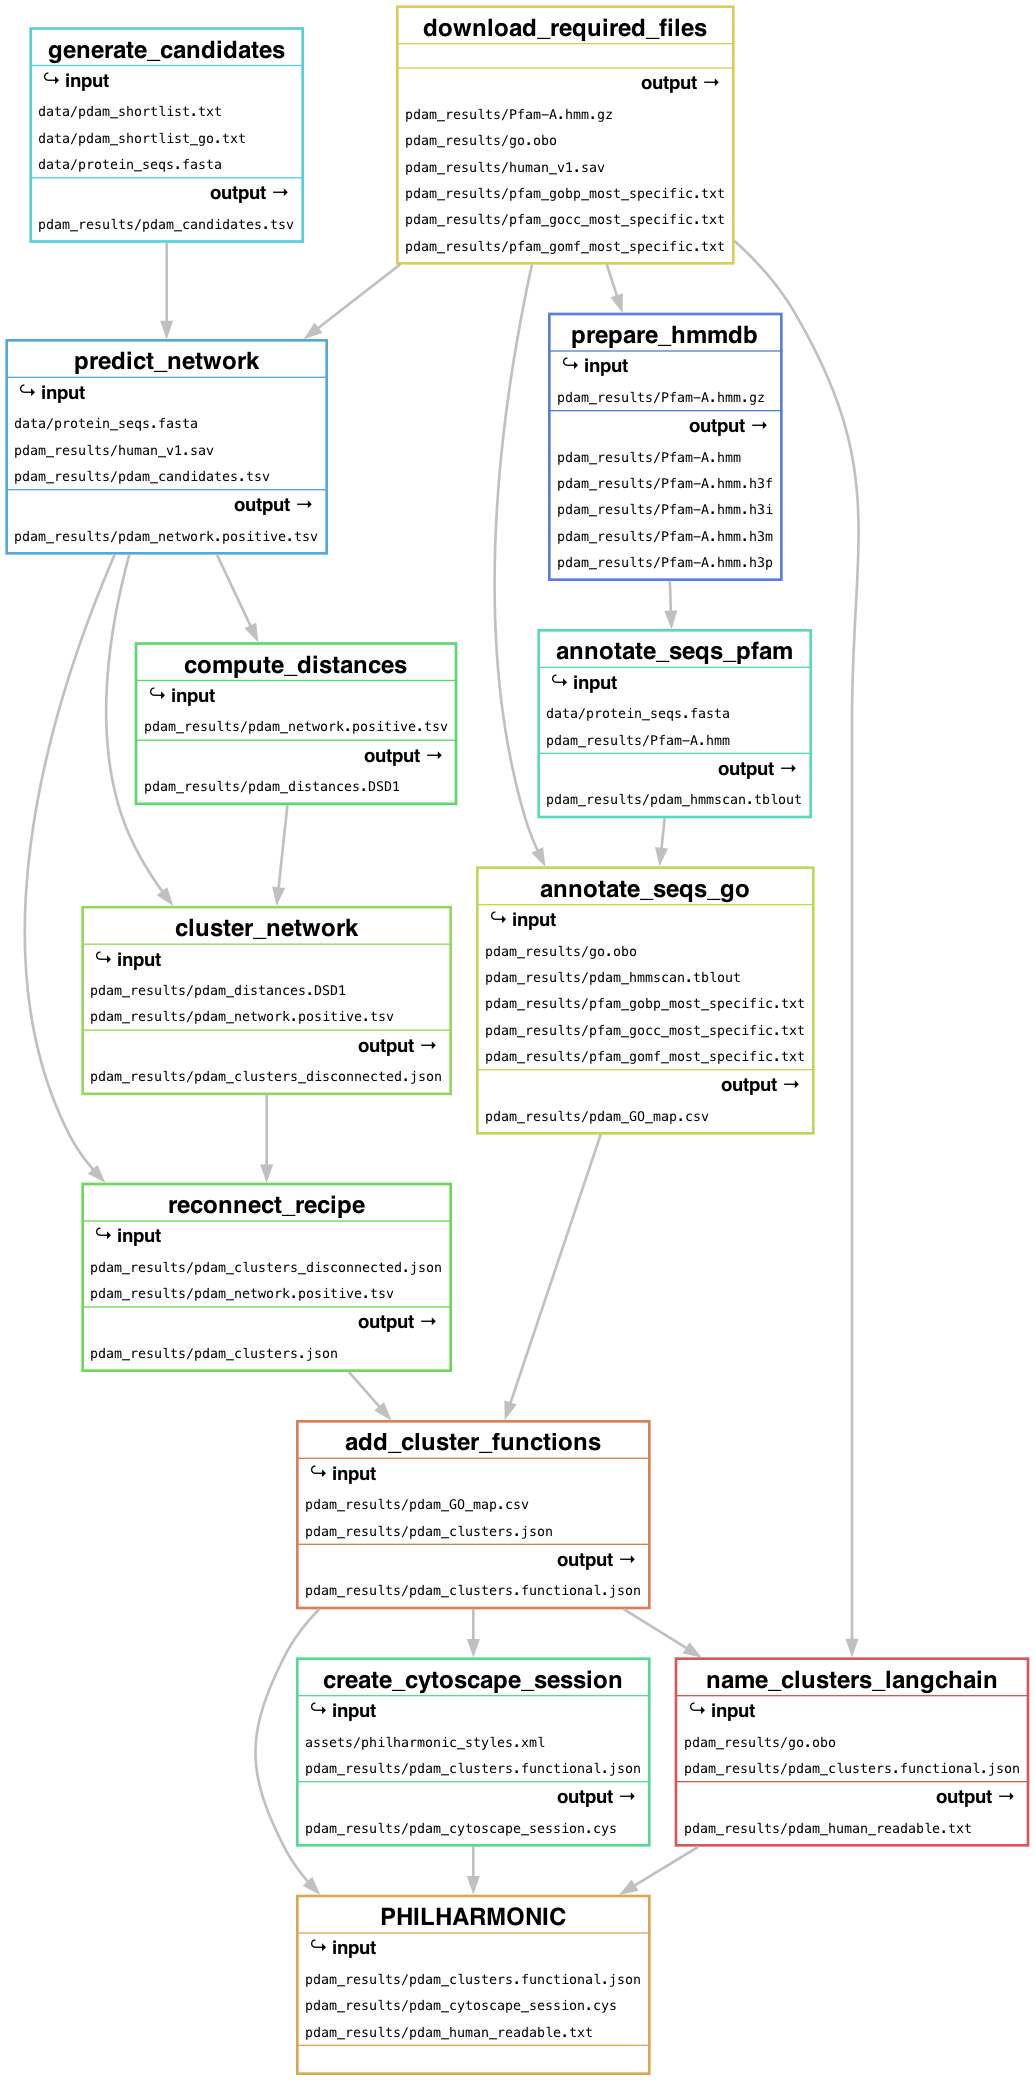
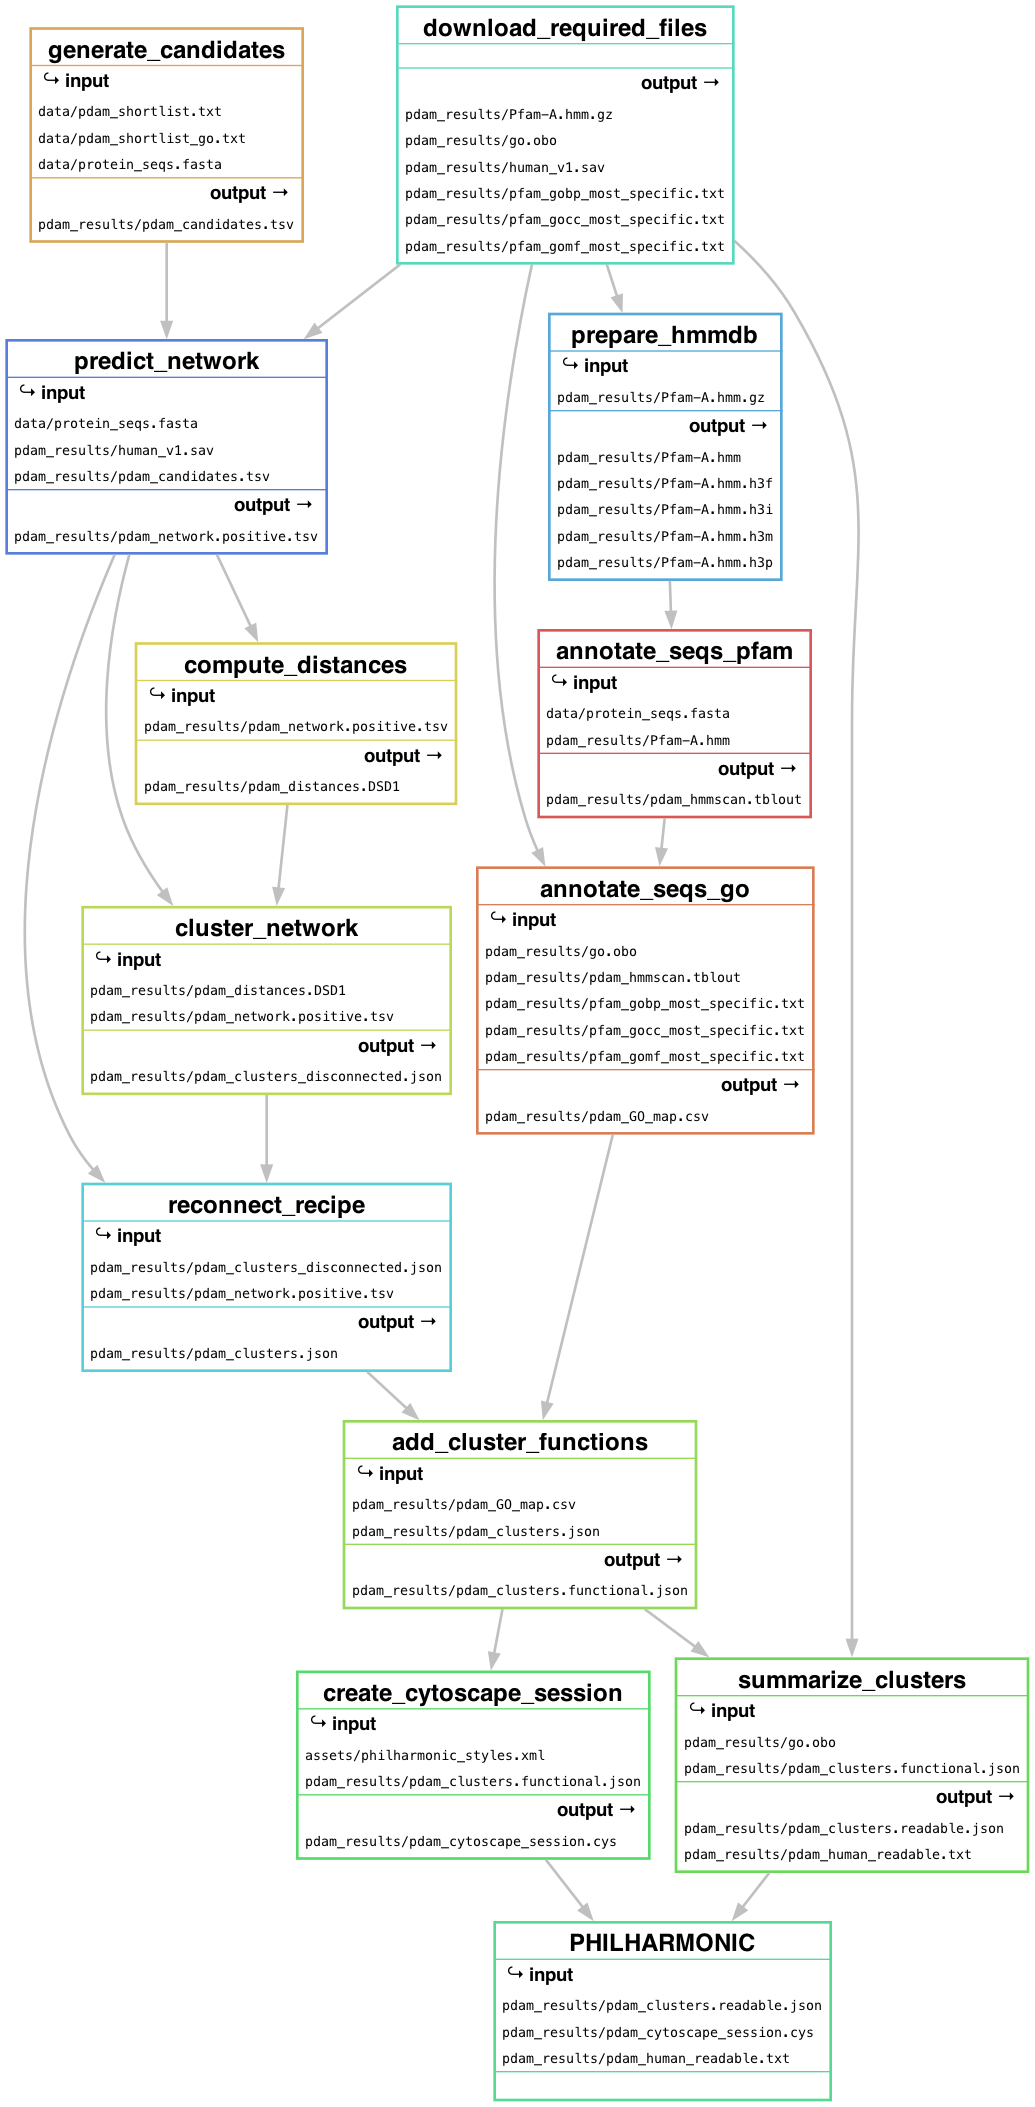
Additions to human readability, cytoscape output, GO function annotation

diff --git a/src/summarize_clusters.py b/src/summarize_clusters.py
@@ -9,7 +9,7 @@ from langchain_openai import ChatOpenAI
 from langchain_core.output_parsers import StrOutputParser
 from langchain_core.prompts import ChatPromptTemplate
 
-from utils import load_cluster_json, parse_GO_database, Cluster
+from utils import load_cluster_json, parse_GO_database, Cluster, log
 
 task_instruction = """
 You are an expert biologist with a deep understanding of the Gene Ontology. Your job is to give short, intuitive, high-level names to clusters of proteins, given a set of GO terms associated with the proteins and their frequencies.
@@ -39,11 +39,11 @@ Cluster of 14 [pdam_00002129-RA,pdam_00001718-RA,...] (hash 1332063120138743063)
 Triangles: 27.0
 Max Degree: 8
 Top Terms:
-GO:0071502 - <cellular response to temperature stimulus> (11)
-GO:0019233 - <sensory perception of pain> (11)
-GO:0042493 - <response to drug> (10)
-GO:0007603 - <phototransduction, visible light> (10)
-GO:0004876 - <complement component C3a receptor activity> (9)
+    GO:0071502 - <cellular response to temperature stimulus> (11)
+    GO:0019233 - <sensory perception of pain> (11)
+    GO:0042493 - <response to drug> (10)
+    GO:0007603 - <phototransduction, visible light> (10)
+    GO:0004876 - <complement component C3a receptor activity> (9)
 
 We would name this cluster "Sensory Response" because there is a high representation for GO terms related to temperature, drug, and pain response.
 """
@@ -54,37 +54,50 @@ Please name the following cluster:
 
 llm_system_template = task_instruction + confidence_score + format_instruction + analytical_approach + one_shot_example + request
 
-def llm_chain_invoker(model, cluster):
+def llm_summarize(cluster, go_database, model, sys_template, api_key):
     
-
     parser = StrOutputParser()
     prompt_template = ChatPromptTemplate.from_messages(
-        [("system", system_template), ("user", "{text}")]
+        [("system", sys_template), ("user", "{text}")]
     )
     chain = prompt_template | model | parser
     r = chain.invoke({
-            "text": str(c)
+            "text": cluster_format(cluster, go_database)
         })
+    
+    # return r
     
     return json.loads(r)
 
-def llm_format(clust, go_database, n_terms = 5):
+def cluster_format(clust, go_database, n_terms = 5):
 
     clust = Cluster(clust)
+    description_string = ""
+
+    if hasattr(clust, 'llm_name'):
+        description_string += f"Cluster Name: {clust.llm_name}\n"
 
     members = clust._member_list()
-    description_string = f"Cluster of {len(members)} proteins\n"
+    description_string += f"Cluster of {len(clust.members)} proteins [{members}] (hash {hash(clust)})\n"
 
     if hasattr(clust, 'G'):
+        description_string += f"Edges: {len(clust.G.edges())}\n"
         description_string += f"Triangles: {clust.triangles()}\n"
-        description_string += f"Max Degree: {max(clust.G.degree(), key=lambda x: x[1])[1]}\n"
+        description_string += f"Max Degree: {0 if not len(clust.G.edges()) else max(clust.G.degree(), key=lambda x: x[1])[1]}\n"
 
     if hasattr(clust, 'GO_terms'):
         top_terms = clust.get_top_terms(n_terms)
         description_string += "Top Terms:\n"
         for gid, freq in top_terms:
-            go_name = go_database[gid]["name"]
-            description_string += f"\t{gid} - <{go_name}> ({freq})\n"
+            try:
+                go_name = go_database[gid]
+            except KeyError:
+                go_name = "Unknown"
+            description_string += f"\t\t{gid} - <{go_name}> ({freq})\n"
+
+    if hasattr(clust, 'llm_explanation'):
+        description_string += f"LLM Explanation: {clust.llm_explanation}\n"
+        description_string += f"LLM Confidence: {clust.llm_confidence}\n"
 
     return description_string
 
@@ -92,50 +105,45 @@ def llm_format(clust, go_database, n_terms = 5):
 if __name__ == "__main__":
     parser = argparse.ArgumentParser(description='Create a human readable summary for results of a cluster analysis')
     parser.add_argument('-o', '--output', required=True, type=str, help='Output file')
+    parser.add_argument('--json', type=str, default=None, help='Output in JSON format')
     parser.add_argument('-cfp', '--cluster_file_path', required=True, type=str, help='Cluster file')
     parser.add_argument('--go_db', required=True, type=str, help='GO database')
-    parser.add_argument('--api_key', required=True, type=str, help='OpenAI API key')
+    parser.add_argument('--llm_name', action='store_true', help='Use a large language model to name clusters')
+    parser.add_argument('--api_key', type=str, help='OpenAI API key')
 
     args = parser.parse_args()
 
     clusters = load_cluster_json(args.cluster_file_path)
     go_database = parse_GO_database(args.go_db)
 
-    # with open("OPENAI_API_KEY.txt","r") as f:
-    #     passwd = f.read().strip()
-    # os.environ["OPENAI_API_KEY"] = args.api_key
+    if args.llm_name:
+        # with open("OPENAI_API_KEY.txt","r") as f:
+            # passwd = f.read().strip()
+        os.environ["OPENAI_API_KEY"] = args.api_key
 
-    # model = ChatOpenAI(model="gpt-4")
+        model = ChatOpenAI(model="gpt-4o")
 
-    # results = []
-    # REGEX = r"Cluster of \d+ \[.*?\] \(hash \d+\)\nTriangles: \d+.\d+\nMax Degree: \d+\nTop Terms:\n(?:\tGO.*?\n)+"
-    # clusters = re.findall(REGEX, cluster_description)
-
-    # def divide_chunks(l, n):
-
-    #     # looping till length l
-    #     for i in range(0, len(l), n):
-    #         yield l[i:i + n]
-
-    # for c in tqdm(divide_chunks(clusters, 50), total=len(clusters) // 50):
-        
-    #     results.append(r)
-
-    # with open(f"{cluster_file}.llm_functions.json","w+") as f:
-    #     f.write("[")
-    #     for r in results:
-    #         f.write(r)
-    #         f.write("\n")
-    #     f.write("]")
-
-    # clusters_human_readable = {}
-    # for k, clust in tqdm(clusters.items()):
-    #     c = Cluster(clust)
-    #     llm_response = llm_chain_invoker(str(c), model)
-    #     clust.update(llm_response)
-    #     clusters_human_readable[k] = clust
-        # f.write(json.dumps({"hash": k, "short_name": short_name, "explanation": explanation, "confidence_score": confidence_score}))
-        # f.write("\n")
-
-    # with open(args.output, 'w') as f:
-    #     json.dump(clusters, f)
+        for k, clust in tqdm(clusters.items()):
+            if not hasattr(clust, 'llm_name'):
+                try:
+                    llm_summary = llm_summarize(clust, go_database, model, llm_system_template, args.api_key)
+                    clust["llm_name"] = llm_summary["short_name"]
+                    clust["llm_explanation"] = llm_summary["explanation"]
+                    clust["llm_confidence"] = llm_summary["confidence_score"]
+                except Exception as e:
+                    log(f"Error: {e}")
+                    clust["llm_name"] = "Unknown"
+                    clust["llm_explanation"] = "Unknown"
+                    clust["llm_confidence"] = "Unknown"
+    
+    if args.json:
+        for k, clust in clusters.items():
+            clust["human_readable"] = cluster_format(clust, go_database)
+        with open(args.json, 'w') as f:
+            json.dump(clusters, f, indent=4)
+    
+    with open(args.output, 'w') as f:
+        for k, clust in clusters.items():
+            description_string = cluster_format(clust, go_database)
+            f.write(description_string)
+            f.write("\n\n")

diff --git a/src/utils.py b/src/utils.py
@@ -1,8 +1,8 @@
 import hashlib
 import json
+import re
 import pandas as pd
 import networkx as nx
-
 
 class Cluster:
     def __init__(self,cluster_dict):
@@ -90,7 +90,7 @@ class Cluster:
         self.G = G.subgraph(self.members)
 
     def triangles(self):
-        return sum([i for i in nx.triangles(self.G).values()]) / 3
+        return int(sum([i for i in nx.triangles(self.G).values()]) / 3)
 
     # def draw_degree_histogram(self,draw_graph=True):
     #     if not hasattr(self,'G'):
@@ -143,18 +143,18 @@ def parse_GO_database(infile):
     terms = {}
     with open(infile,'r') as f:
         for line in f:
-            tDict = {}
             line = line.strip()
             if line == "[Term]":
-                line = f.readline().strip().split(': ')
-                while not line == ['']:
-                    tDict[line[0]] = ''.join(line[1:])
-                    line = f.readline().strip().split(': ')
-                for k,v in tDict.items():
-                    k = k.strip()
-                    v = v.strip()
-                    tDict[k] = v
-                terms[tDict['id']] = tDict
+                term_ids = []
+                line = f.readline().strip()
+                while not line == '':
+                    if line.startswith('id:') or line.startswith('alt_id:'):
+                        term_ids.append(line.split(': ')[1])
+                    elif line.startswith('name:'):
+                        main_name = line.split(': ')[1]
+                    line = f.readline().strip()
+                for tid in term_ids:
+                    terms[tid] = main_name
     return terms
 
 

diff --git a/src/build_cytoscape.py b/src/build_cytoscape.py
@@ -1,13 +1,33 @@
 # "python src/philharmonic_cytoscape.py -s {input.styles} -o {output} {input.clusters}
 
 import argparse
+import pandas
+import py4cytoscape as p4c
+import networkx as nx
 from pathlib import Path
+from utils import load_cluster_json
 
 if __name__ == "__main__":
     parser = argparse.ArgumentParser(description='Create a Cytoscape style file from a cluster file')
     parser.add_argument('-s', '--styles', type=str, help='Cytoscape style file')
     parser.add_argument('-o', '--output', type=str, help='Output file')
-    parser.add_argument('clusters', type=str, help='Cluster file')
+    parser.add_argument('--name', type=str, help='Name of the network')
+    parser.add_argument('-cfp', '--cluster_file_path', type=str, help='Cluster file path')
+    parser.add_argument('-nfp', '--network_file_path', type=str, help='Node file path')
 
     args = parser.parse_args()
-    Path(args.output).touch()
+
+    netx = nx.read_weighted_edgelist(args.network_file_path)
+    clusters = load_cluster_json(args.cluster_file_path)
+
+    p4c.create_network_from_networkx(netx, title=f"{args.name} Main", collection=args.name)
+
+    cluster_group_map = {}
+    for k, clust in clusters.items():
+        # p4c.create_network_from_networkx(netx.subgraph(clust["members"]), title=f"{args.name} Cluster {k}", collection=args.name)
+        p4c.create_group(nodes=clust["members"], group_name=f"Cluster {k}", nodes_by_col="name")
+
+    p4c.collapse_group('all')
+
+    # p4c.save_session(args.output)
+    # # Path(args.output).touch()

diff --git a/src/build_go_map.py b/src/build_go_map.py
@@ -1,0 +1,33 @@
+import argparse
+import pandas as pd
+from collections import defaultdict
+from Bio import SearchIO
+
+if __name__ == "__main__":
+    parser = argparse.ArgumentParser('Add GO terms to clusters')
+    parser.add_argument('-o', '--output', required=True, type=str, help='Output file')
+    parser.add_argument('--hhtblout', required=True, type=str, help='hhsearch tblout file')
+    parser.add_argument('--pfam_go_files', type=str, nargs='+')
+
+    args = parser.parse_args()
+
+    print(args.output)
+    print(args.hhtblout)
+
+    hits = defaultdict(list)
+    with open(args.hhtblout) as handle:
+        for queryresult in SearchIO.parse(handle, 'hmmer3-tab'):
+            for hit in queryresult.hits:
+                prot_id = hit.query_id
+                pfam_id = hit.accession.split('.')[0]
+                hits[prot_id].append(pfam_id)
+
+    pfam_go_map = pd.concat([pd.read_csv(f, sep=';', header=0) for f in args.pfam_go_files], ignore_index=True)
+
+    protein_go_map = []
+    for prot_id, pfam_hits in hits.items():
+        go_terms = pfam_go_map[pfam_go_map['PFAM'].isin(pfam_hits)]['GO'].tolist()
+        protein_go_map.append((prot_id, '', ";".join(pfam_hits), ";".join(go_terms)))
+    protein_go_map = pd.DataFrame(protein_go_map, columns=['prot_id', 'manual annot', 'pfam_list', 'GO_list'])
+
+    protein_go_map.to_csv(args.output, index=False)

diff --git a/src/add_cluster_functions.py b/src/add_cluster_functions.py
@@ -2,7 +2,7 @@
 import argparse
 import json
 
-from utils import parse_GO_database, parse_GO_map, load_cluster_json, log
+from utils import parse_GO_map, load_cluster_json, log
 
 def add_GO_function(cluster, go_map):
     """
